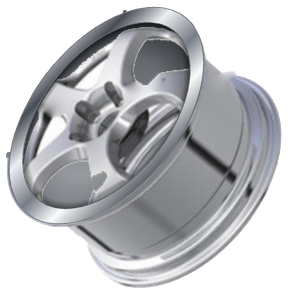
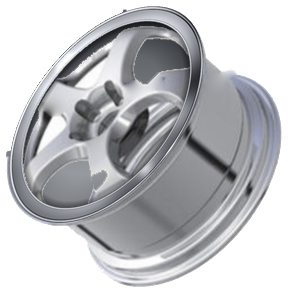
Render the one-piece and three-piece outer lips as realistic chrome
Claude-Session: https://claude.ai/code/session_01SYhocdxNsLbwS7KWK8BqKg

diff --git a/index.html b/index.html
@@ -490,7 +490,7 @@ button:focus-visible { outline: 3px solid var(--accent); outline-offset: 2px; }
     const img = document.createElement("img");
     img.className = "diagram"; img.src = "images/forge-" + f.id + ".png";
     img.alt = FORGE_IMAGES[f.id];
-    [img.width, img.height] = { mono: [288, 294], two: [346, 337], three: [401, 393] }[f.id];
+    [img.width, img.height] = { mono: [288, 293], two: [346, 337], three: [401, 392] }[f.id];
     img.decoding = "async"; img.draggable = false;
     c.querySelector("span").prepend(img);
     forgeChips.append(c);
